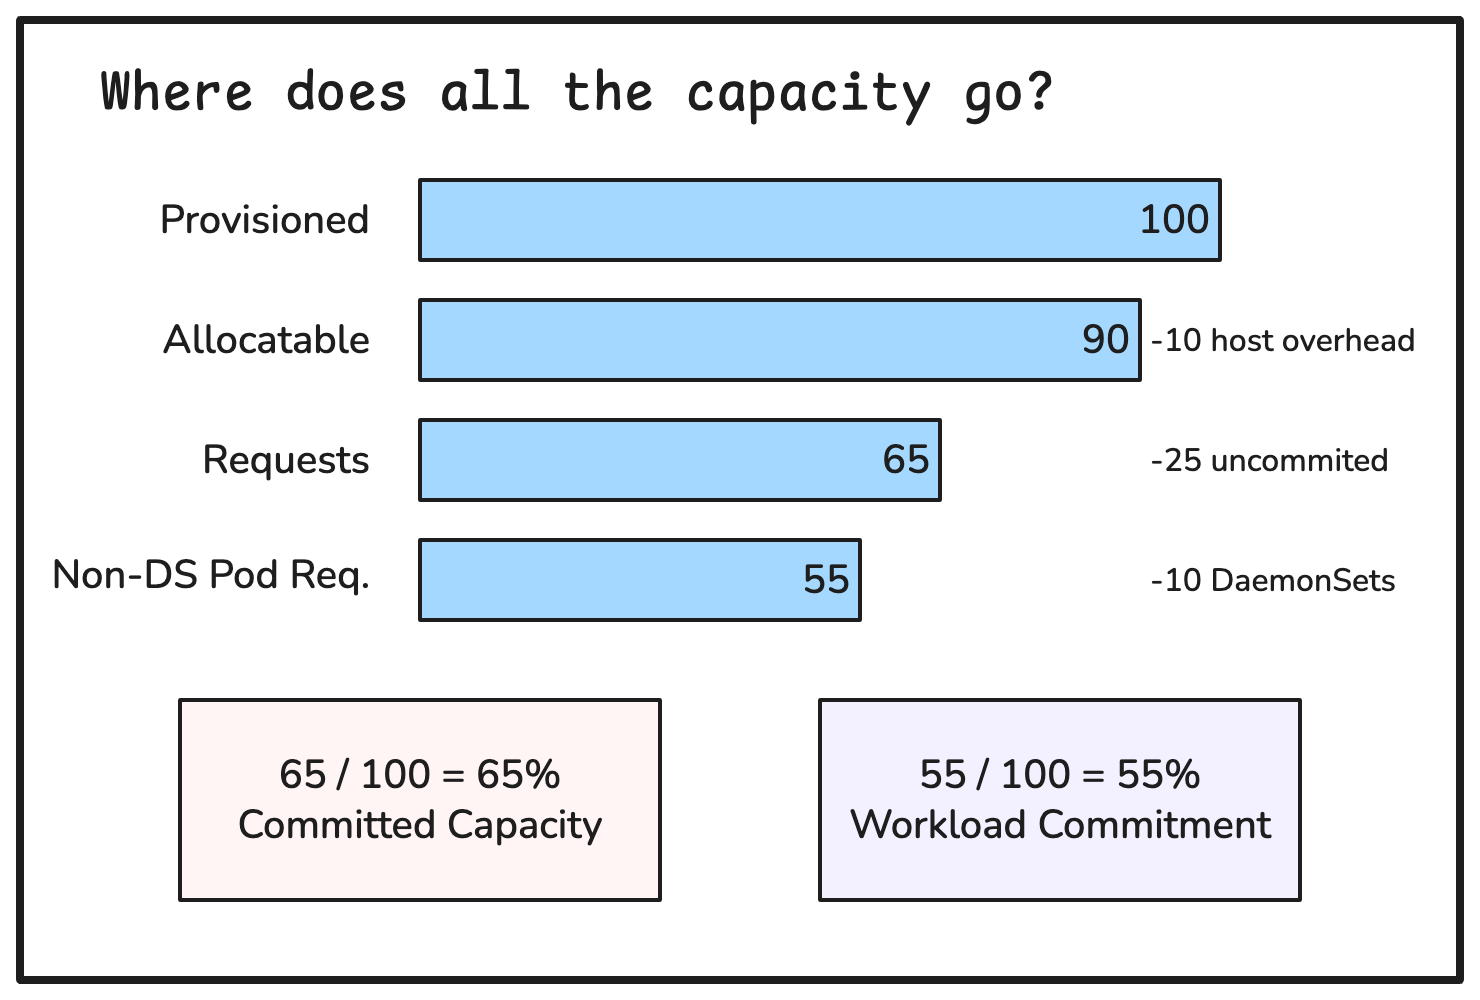
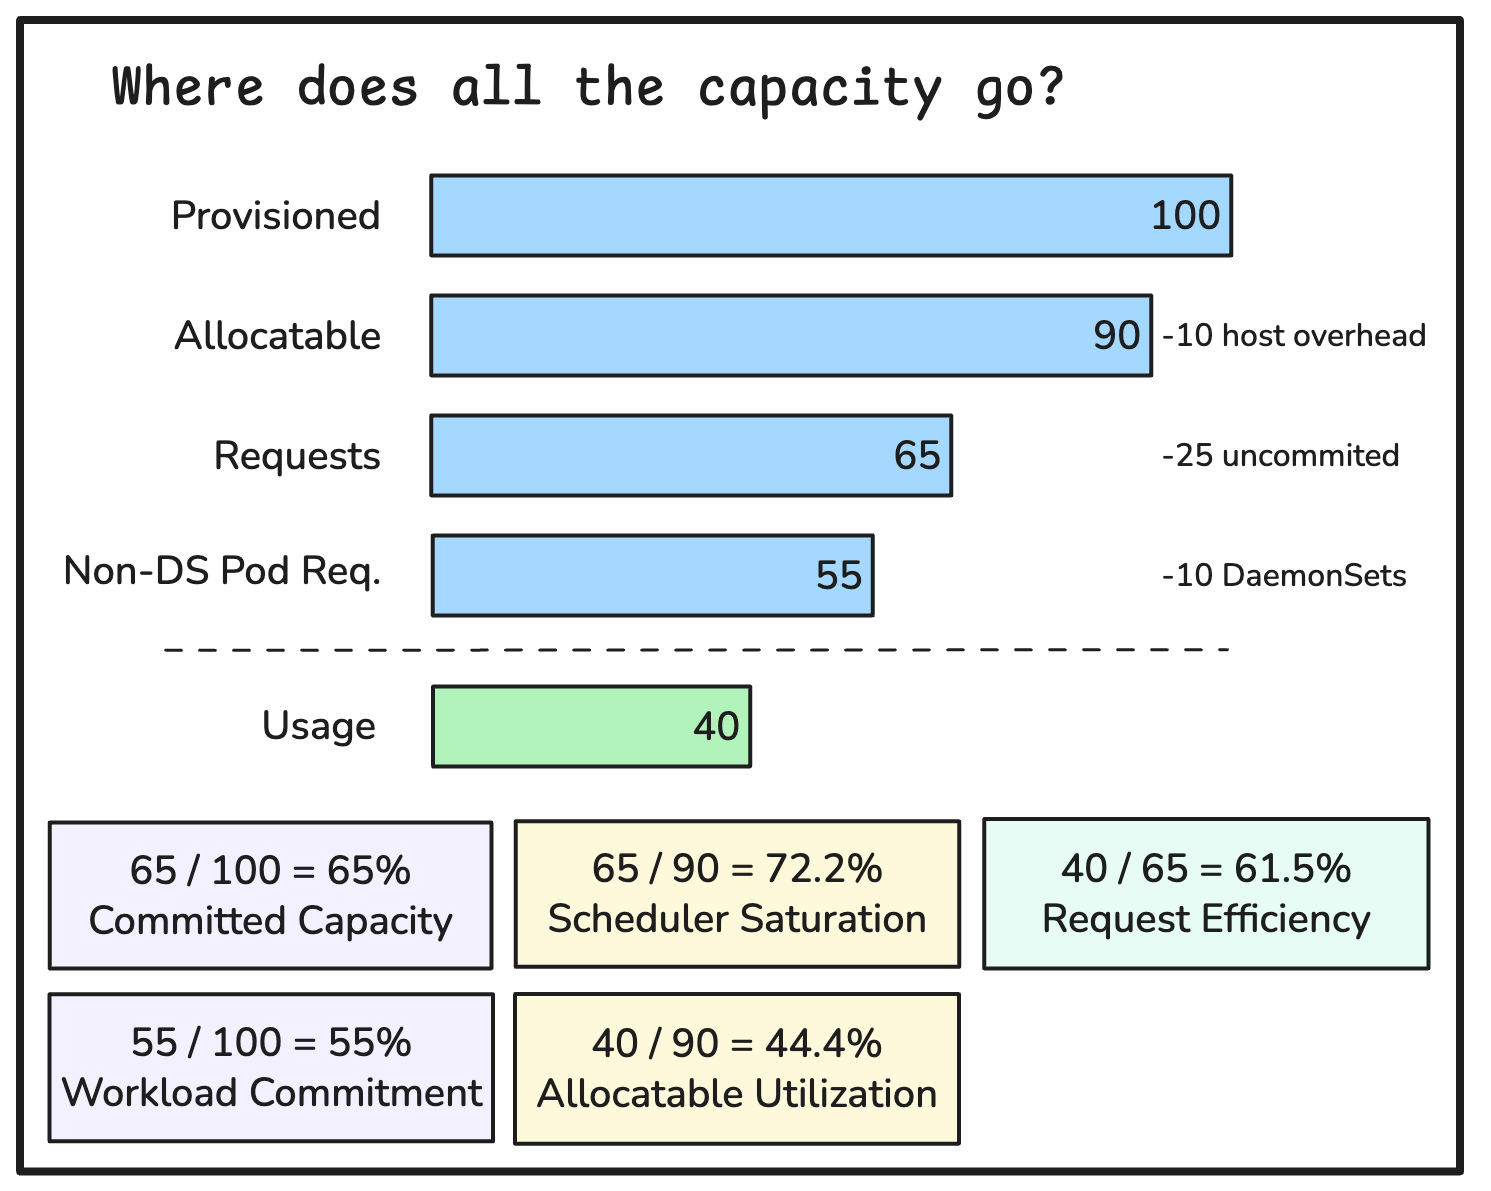
more edits

diff --git a/acrl/posts/2026-09-28-capacity-utilization.md b/acrl/posts/2026-09-28-capacity-utilization.md
@@ -1,14 +1,14 @@
 ---
-title: "Capacity Utilization: of what?"
+title: "Autoscaling Metric #1: Capacity Utilization"
 authors:
   - ian
 datetime: 2026-09-28 11:00:00
 template: post.html
 ---
 
-At ACRL, we get to talk to a lot of clusters... I mean people. Many of those people manage clusters at scale, which
+At ACRL, we get to talk to a lot of clusters... I mean people. Many of those people manage clusters at scale[^1], which
 we don't recommend, but we all have our burdens. In conversations with these individuals, who will remain nameless
-to protect the guilty, we often hear something like, "at made-up-for-this-fake-example Corp., we're only utilizing 63.2%
+to protect the guilty, we often hear something like, "at made-up-for-this-fake-example Corp., we're only utilizing 67%
 of our capacity".
 
 And to that I want to say: "What do you even mean, bro?"
@@ -16,32 +16,32 @@ And to that I want to say: "What do you even mean, bro?"
 I'm a bit of a student of economics, by which I mean I lost a lot of money in crypto scams and now I have to do this to
 survive. But I once had an economics professor who would respond whenever you mentioned a rate like productivity,
 efficiency, or utilization with a simple question: "Of what?" This was a polite way of saying: "Tell me the damn
-numerator and denominator, and do it right now."[^1]
+numerator and denominator, and do it right now."[^2]
 
 Specificity matters, and at scale, it matters a hell of a lot. Today, let's give ourselves permission to be a bit
-pedantic because we can't afford not to.
+pedantic, because we can't afford not to.
 
 ## A cluster (under)utilized
 
-In the lead-in to this series, drmorr teased the five key metrics for evaluating autoscalers. We're starting off
-with committed capacity percentage: a cost-oriented metric that reveals how much of our provisioned capacity we've
-committed to workloads.
+In [the lead-in to this series](./2026-09-22-five-key-metrics.md), drmorr teased the five key metrics for evaluating
+autoscalers. We're starting off with committed capacity percentage: a cost-oriented metric that reveals how much of our
+provisioned capacity we've committed to workloads.
 
-"Cluster Utilization" sounds like a straightforward efficiency metric. Unfortunately, as an industry, we are pretty
-abstract about what utilization is and how we measure it. If you google cluster utilization, you will get a terrible AI
+"Capacity Utilization" sounds like a straightforward efficiency metric. Unfortunately, as an industry, we are pretty
+abstract about what utilization is and how we measure it. If you Google cluster utilization, you will get a terrible AI
 overview, followed by an ad, followed by a fistful of different definitions, including some of the following:
 
 | Metric | Calculation | Question answered |
 | --- | --- | --- |
-| Request Efficiency | usage / requests | How much of the requested capacity is being used? |
-| Allocatable Utilization | usage / allocatable | How much capacity available to Pods is being used? |
-| Scheduler Saturation | requests / allocatable | How much capacity available to Pods has been requested? |
 | Committed Capacity | requests / provisioned | How much total provisioned capacity has been requested? |
+| Scheduler Saturation | requests / allocatable | How much capacity available to Pods has been requested? |
+| Allocatable Utilization | usage / allocatable | How much capacity available to Pods is being used? |
+| Request Efficiency | usage / requests | How much of the requested capacity is being used? |
 
 These are all perfectly valid calculations, but they all measure different things. When someone says "Our utilization is
 57.62%." I still have to ask "Of what?"
 
-For our five metrics for evaluating autoscalers our interest in utilization is as an inverse proxy for waste. For a
+For our five metrics for evaluating autoscalers, our interest in utilization is as an inverse proxy for waste. For a
 comparable workload, a higher utilization metric should indicate we are provisioning less excess capacity. It does not
 prove that those uncommitted resources are removable or that all the requests are necessary. We'll get to that in a
 moment.
@@ -60,11 +60,10 @@ metrics for evaluating autoscalers, it would be Committed Capacity Percentage. W
 \]
 
 Typically, committed capacity is calculated separately for CPU and memory. Here, "requests" means the resource requests
-of non-terminated pods on the nodes we are measuring. Include both application pods and platform pods (including
-DaemonSets). Unscheduled Pods represent unmet demand rather than commitments against the current nodes and should be
-tracked separately.
+of non-terminated pods on the nodes we are measuring. Unscheduled Pods represent unmet demand rather than commitments
+against the current nodes and should be tracked separately.
 
-Why this ratio? We love money, dude.[^2]
+Why this ratio? We love money, dude.[^3]
 
 We're paying somebody good money to provision Nodes. Any capacity above what is required to support our workload is a
 cost worth investigating. The numerator tells us how much capacity workloads have claimed. Our denominator shows the
@@ -81,21 +80,23 @@ included in pod requests (our numerator). Requests from DaemonSets, however, are
 numerator. If we were to use allocatable capacity as the divisor we would lose visibility of the overhead inherent in
 `kubeReserved` and `systemReserved`. Some of this overhead is 100% necessary.
 
-The capacity of a node has two primary dimensions CPU and Memory. How the scheduler fits workloads onto nodes is called
-bin packing and since we have two dimensions we actually have a 2D bin packing problem. Bin packing is a fascinating,
-complex domain, however, it is quite easy to visualize potential excess capacity with a conceptual diagram. To
-illustrate the complexity of this problem see the following diagram: efficiently bin packing a bunch of squares of equal
-size is quite easy, but inefficiencies emerge quickly with real workloads: we've got long, short, big, small, squares
-and rectangles creating many inefficiencies in the packing of this node.[^3]
+In most cases, the capacity of a node has two primary dimensions CPU and Memory[^4]. How the scheduler fits workloads
+onto nodes is called bin packing and since we have two dimensions we actually have a 2D bin packing problem. Bin packing
+is a fascinating, complex domain; however, it is quite easy to visualize potential excess capacity with a conceptual
+diagram. To illustrate the complexity of this problem see the following diagram: efficiently bin packing a bunch of
+squares of equal size is quite easy, but inefficiencies emerge quickly with real workloads: we've got long, short, big,
+small, squares and rectangles creating many inefficiencies in the packing of this node.[^5]
 
 <figure markdown>
   ![""](/img/posts/2d-bin-packing.png)
-  <figcaption>2d bin packing example.</figcaption>
+  <figcaption> Learn how to make this graph and many more at drmorr's
+    <a href="https://osacon.io/sessions/2026/10-useful-dashboards-you-cant-make-with-grafana/">OSAcon talk</a>
+    this November!</figcaption>
 </figure>
 
-Bin packing is just one place inefficiencies appear, other sources of excess capacity may include slow or
+Bin packing is just one place inefficiencies appear. Other sources of excess capacity may include slow or
 inefficient scale-down, node/pod shape misalignment, and stranded resources due to scheduling constraints. When these
-cause additional resources to be provisioned for the same requests, committed capacity falls. Committed Capacity
+cause additional resources to be provisioned for the same requests, committed capacity falls. Committed capacity
 percentage can show us that one or more of these symptoms are present, but it will not identify the cause.
 
 We also can't tell from this metric alone if the excess capacity is waste. Some headroom is necessary for a
@@ -104,12 +105,12 @@ capacity percentage. An organization might
 have a lower provisioned capacity because of a valid reliability concern, which is also why this is just one of our five
 metrics. That all sounds great, right?
 
-Wait a second. Some of our allocatable capacity is claimed by DaemonSet replicas on each of our nodes.What if we
-increased our node count while keeping total provisioned CPU and Memory unchanged (more smaller nodes) our DaemonSet
+Wait a second. Some of our allocatable capacity is claimed by DaemonSet replicas on each of our nodes. What if we
+increased our node count while keeping total provisioned CPU and Memory unchanged? In this scenario, our DaemonSet
 replica count would rise and committed capacity percentage would increase. That seems like the opposite of what we want
-in a metric for evaluating autoscalers. We would prefer a measure that decreases as overhead increases.[^4] Additionally,
-our output metric (the numerator) should be as closely aligned with the actual application workloads the platform is
-oriented around serving to customers[^5].
+in a metric for evaluating autoscalers. We would prefer a measure that decreases as overhead increases[^6].
+Additionally, our output metric (the numerator) should be closely aligned with the actual application workloads;
+after all, the platform is designed to serve customers, not the other way around[^7]!
 
 With that said we are pleased to announce Workload Commitment Percentage a modified committed capacity metric which
 addresses this loophole and is more closely aligned with the actual business objective of your clusters.
@@ -130,7 +131,24 @@ metric. We exclude DaemonSets from the denominator so as DaemonSet overhead rise
   <figcaption>Breakdown of provisioned capacity.</figcaption>
 </figure>
 
+## PromQL Example
+
+Disclaimer: This probably won't work at scale. But hey, knock yourself out.
+
+```promql
+avg(sum(kube_pod_status_phase{phase="Running"}
+  * on (pod) max by (pod) (kube_pod_container_resource_requests{resource="cpu"})
+  * on (pod) max by (pod) (kube_pod_owner{owner_kind!="DaemonSet"})
+  * on (pod) group_right max by (pod, node) (kube_pod_info)
+) by (node) / on (node)
+sum(kube_node_status_capacity{resource="cpu"}) by (node))
+```
+
 ## Point of order: Ian, are you stupid?
+
+If you talk to your platform teams, nobody actually tracks this metric, and why not? Is it because we're stupid? No,
+it's because it's hard to do. Here's a quick comparison of the other metrics that are easier to track, and why we
+recommend doing the hard thing anyways.
 
 ### Why not requests / allocatable?
 
@@ -174,7 +192,7 @@ There are other ways this percentage can mislead us:
 - A cluster-wide average can hide resources stranded on specific nodes. You can't take CPU from one node and supply it
 to a pod on another node.
 - An autoscaler could leave unsatisfied demand and earn a good score by keeping its existing nodes full. So we would see
-a high workload commitment percentage but many pods awaiting capacity.
+a high workload commitment percentage but many pods awaiting capacity[^8].
 - A higher percentage on expensive nodes could cost more than a lower percentage on cheaper nodes. CPU and memory
 percentages are not denominated in dollars.
 
@@ -187,9 +205,9 @@ of savings or a ranking system for otherwise unrelated clusters.
 ## Why track it anyway?
 
 Maybe you are thinking, "Well, Workload Commitment is imperfect, maybe we shouldn't worry about tracking it at all."
-This is a useful signal that is cheap to calculate. You can get all the request data easily from Kubernetes' native
-metric sources. Workload Commitment is a great frontline metric and provides a good indicator of avoidable cluster
-costs.
+However, this is a useful signal that is cheap(-ish) to calculate. You can get all the request data easily from
+Kubernetes' native metric sources. Workload Commitment is a great frontline metric and provides a good indicator of
+avoidable cluster costs[^9].
 
 ## Conclusion
 
@@ -204,13 +222,22 @@ Cheers,
 
 Ian
 
-[^1]: An early draft of this article included a graph with unlabeled axes. This professor is now rolling over in his
+[^1]: Sometimes the clusters also manage people at scale
+
+[^2]: An early draft of this article included a graph with unlabeled axes. This professor is now rolling over in his
 grave. RIP to a legend.
 
-[^2]: Seriously, subscribe.
+[^3]: Seriously, please subscribe. We're running out of mochas over here.
 
-[^3]: Before you flip your lid reddit. This is a CONCEPTUAL diagram for a SIMPLIFIED example.
+[^4]: We're ignoring resources such as GPUs, storage space, network bandwidth, etc. since these are more specialized and
+if you're using them in your autoscaling we assume you already know what you're doing.
 
-[^4]: Not all DaemonSets are platform overhead.
+[^5]: Before you flip your, lid Reddit. This is a CONCEPTUAL diagram for a SIMPLIFIED example.
 
-[^5]: You have those... right?
+[^6]: Not all DaemonSets are platform overhead.
+
+[^7]: You have those... right? Can you share some with us?
+
+[^8]: TIL
+
+[^9]: Assuming your observability team isn't dropping metrics all willy-nilly to keep costs down.
